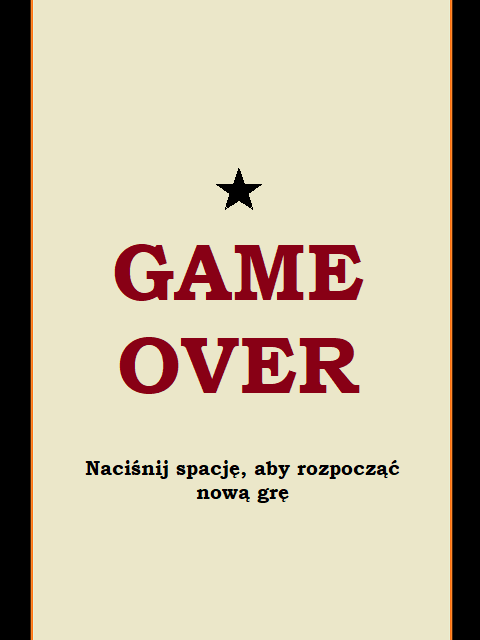
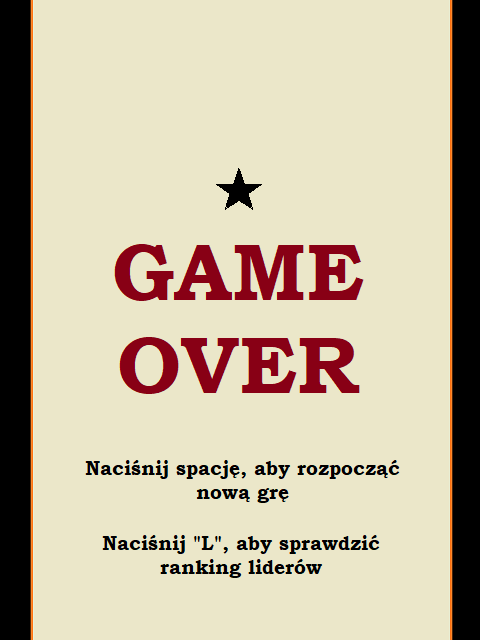
dodanie do gry tabeli liderów

Changed region(s): [[0.2188, 0.8125, 0.7812, 0.9062]]

diff --git a/main.py b/main.py
@@ -5,6 +5,7 @@
 #stage 5: choose player Men
 #stage 6: choose player Woman
 #stage 7: enter a nickname
+#stage 8: Leaderboard
 
 import time
 import pygame
@@ -14,6 +15,7 @@ pygame.init()
 ############################Resolution#####################################
 r_x = 480
 r_y = 640
+
 resolution = (r_x, r_y)
 window = pygame.display.set_mode(resolution)
 ###########################################################################
@@ -129,15 +131,17 @@ class TextInput:
     def tick(self, events):
         for event in events:
             if event.type == pygame.KEYDOWN:
-                if event.key == pygame.K_RETURN:
-                    self.confirm = 2
-                    return self.text
+                if self.confirm == 1:
+                    if event.key == pygame.K_RETURN:
+                        self.confirm = 2
+                        return self.text
 
-                elif event.key == pygame.K_BACKSPACE:
-                    self.text = self.text[:-1] #delete last sign
-                elif len(self.text) < self.maxlength or self.maxlength == -1: #if -1 there is no limit
-                    if event.unicode.isprintable():
-                        self.text += event.unicode
+                    elif event.key == pygame.K_BACKSPACE:
+                        self.text = self.text[:-1] #delete last sign
+                    elif len(self.text) < self.maxlength or self.maxlength == -1: #if -1 there is no limit
+                        if event.unicode.isprintable():
+                            self.text += event.unicode
+
 
     def draw(self, window):
         if self.confirm == 1:
@@ -159,11 +163,17 @@ class TextInput:
 ###########################################################   Main   ##############################################
 
 def main():
+    leader = []
+    sorted_leader = []
+    eh = 1
+    file = open("scoreboard.txt", "a+")
+    flag_score = True
     user_nick = ""
     flag = False
     flag2 = False
     flag_nick = False
     flag_enter = False
+    flag_back_from_leader_to_gameover = False
     stage = 1
     clock = 0
     pizzas = []
@@ -174,6 +184,8 @@ def main():
     playera.image = pygame.transform.scale(pygame.image.load("paula0.png"), (82, 111))  # wczytywanie grafiki
     textinput = TextInput(100, 295, 280, 40, maxlength=8, empty="        Podaj nick")
     score = 0
+    score_info = ()
+    score_leaderboard = []
     run = True
     sex = 0
 
@@ -204,6 +216,7 @@ def main():
     score_text = pygame.font.Font.render(pygame.font.SysFont("arial", 24), f"Wynik: {score}", True, (0, 0, 0))
     level_up = pygame.font.Font.render(pygame.font.SysFont("arial", 96), "LEVEL UP!", True, (0, 0, 0))
     nick_bg = pygame.image.load("nick.png")
+    leaderboard = pygame.image.load("leaderboard.png")
 
 
     while run:
@@ -228,7 +241,7 @@ def main():
             if keys[pygame.K_r]:
                 stage = 2
         #time.sleep(1)
-        if stage == 2: #game rules
+        elif stage == 2: #game rules
             if not (keys[pygame.K_SPACE]):
                 flag = True
             window.blit(rules, (0, 0))
@@ -239,7 +252,8 @@ def main():
                 stage = 1
                 flag = False
 ###################################################   Animation   ##############################################
-        if stage == 3: #game in play
+        elif stage == 3: #game in play
+            flag_back_from_leader_to_gameover = False
             if sex == 1:
                 player.image = pygame.transform.scale(pygame.image.load("pawl0.png"), (82, 111))  # wczytywanie grafiki
             elif sex == 2:
@@ -342,18 +356,76 @@ def main():
                 timer = 0.45
 ################################################ End of game levels ##############################################
 ##############################################   End of animation   ##############################################
-        if stage == 4: #game is over
+        elif stage == 4: #game is over
+
             cacti.clear()
             pizzas.clear()
             window.blit(gameover, (0, 0))
             score_text = pygame.font.Font.render(pygame.font.SysFont("arial", 40), f"Twój wynik to: {score}", True, (105, 5, 22))
             window.blit(score_text, (124, 80))
+            if flag_score == True and flag_back_from_leader_to_gameover == False:
+                file.write(str(score) + " " + user_nick + "\n")
+                flag_score = False
+                file.close()
+            score_leaderboard = []
+            file = open("scoreboard.txt", "r")
+            for line in file.readlines():
+                line1 = line.split()[0]
+                line2 = line.split()[1]
+                score_info = (int(line1), line2)
+                score_leaderboard.append(score_info)
+            sorted_leader = sorted(score_leaderboard, key=lambda x: x[0], reverse=True)
+
+            # delete users who score is over top 10
+            for i in range(len(sorted_leader) - 1, -1, -1):
+                if i > 9:
+                    del sorted_leader[i]
+
+            file.close()
+            file = open("scoreboard.txt", "a+")
+            if eh == 1:
+                print(sorted_leader)
+                print(sorted_leader[3])
+                print(sorted_leader[3][0])
+                print(sorted_leader[3][1])
+                eh = 2
             if keys[pygame.K_SPACE]:
-                    stage = 3
-                    score = 0
-                    timer = 1.4
-                    level = 3
-        if stage == 5: #choose Men
+                stage = 3
+                flag_score = True
+                score = 0
+                timer = 1.4
+                level = 3
+            if keys[pygame.K_l]:
+                stage = 8
+                flag_score = True
+
+                timer = 1.4
+                level = 3
+
+        elif stage == 8: #leaderboard
+            if not (keys[pygame.K_SPACE]):
+                flag = True
+                window.blit(leaderboard, (0, 0))
+                pygame.draw.rect(window, (255, 255, 255), (50, 180, 380, 295), border_radius=10)
+            for iter in range(10):
+                leader_storage_score = pygame.font.Font.render(pygame.font.SysFont("arial", 24),
+                                                    f"{iter+1}. Gracz: {sorted_leader[iter][1]}", True, (0, 0, 0))
+                leader_storage_nick = pygame.font.Font.render(pygame.font.SysFont("arial", 24),
+                                                    f"Wynik: {str(sorted_leader[iter][0])}", True, (0, 0, 0))
+
+                window.blit(leader_storage_score, (70, 200 + 25 * iter))
+                window.blit(leader_storage_nick, (320, 200 + 25 * iter))
+
+
+            if keys[pygame.K_SPACE] and flag == True:
+                stage = 3
+                score = 0
+                flag = False
+            elif keys[pygame.K_ESCAPE]:
+                stage = 4
+                flag = False
+                flag_back_from_leader_to_gameover = True
+        elif stage == 5: #choose Men
             if not (keys[pygame.K_SPACE]):
                 flag = True
             if not (keys[pygame.K_d] or keys[pygame.K_RIGHT] or keys[pygame.K_LEFT] or keys[pygame.K_a]):
@@ -373,7 +445,7 @@ def main():
                 player.y_cord = 40
                 sex = 1
 
-        if stage == 6: #choose Woman
+        elif stage == 6: #choose Woman
             if not (keys[pygame.K_SPACE]):
                 flag = True
             if not (keys[pygame.K_d] or keys[pygame.K_RIGHT] or keys[pygame.K_LEFT] or keys[pygame.K_a]):
@@ -395,12 +467,18 @@ def main():
                 player.y_cord = 40
                 sex = 2
 
-        if stage == 7: #enter a nickname
+        elif stage == 7: #enter a nickname
 
             content = textinput.tick(events)
             if content is not None:
                 #print(f"user podał: {content}")
                 user_nick = content
+            #user_nick = user_nick.replace(" ", "")
+            user_nick = user_nick.strip()
+            user_nick = user_nick.replace(" ", "_")
+            if user_nick == "":
+                user_nick = "player"
+
             if not (keys[pygame.K_SPACE]):
                 flag_nick = True
                 window.blit(nick_bg, (0, 0))
@@ -410,9 +488,14 @@ def main():
                 stage = 5
                 flag_nick = False
 
+
             textinput.draw(window)
 
         pygame.display.update()
 
+    file.close()
+
+
+    #print(sorted_leader)
 if __name__ == "__main__":
     main()
